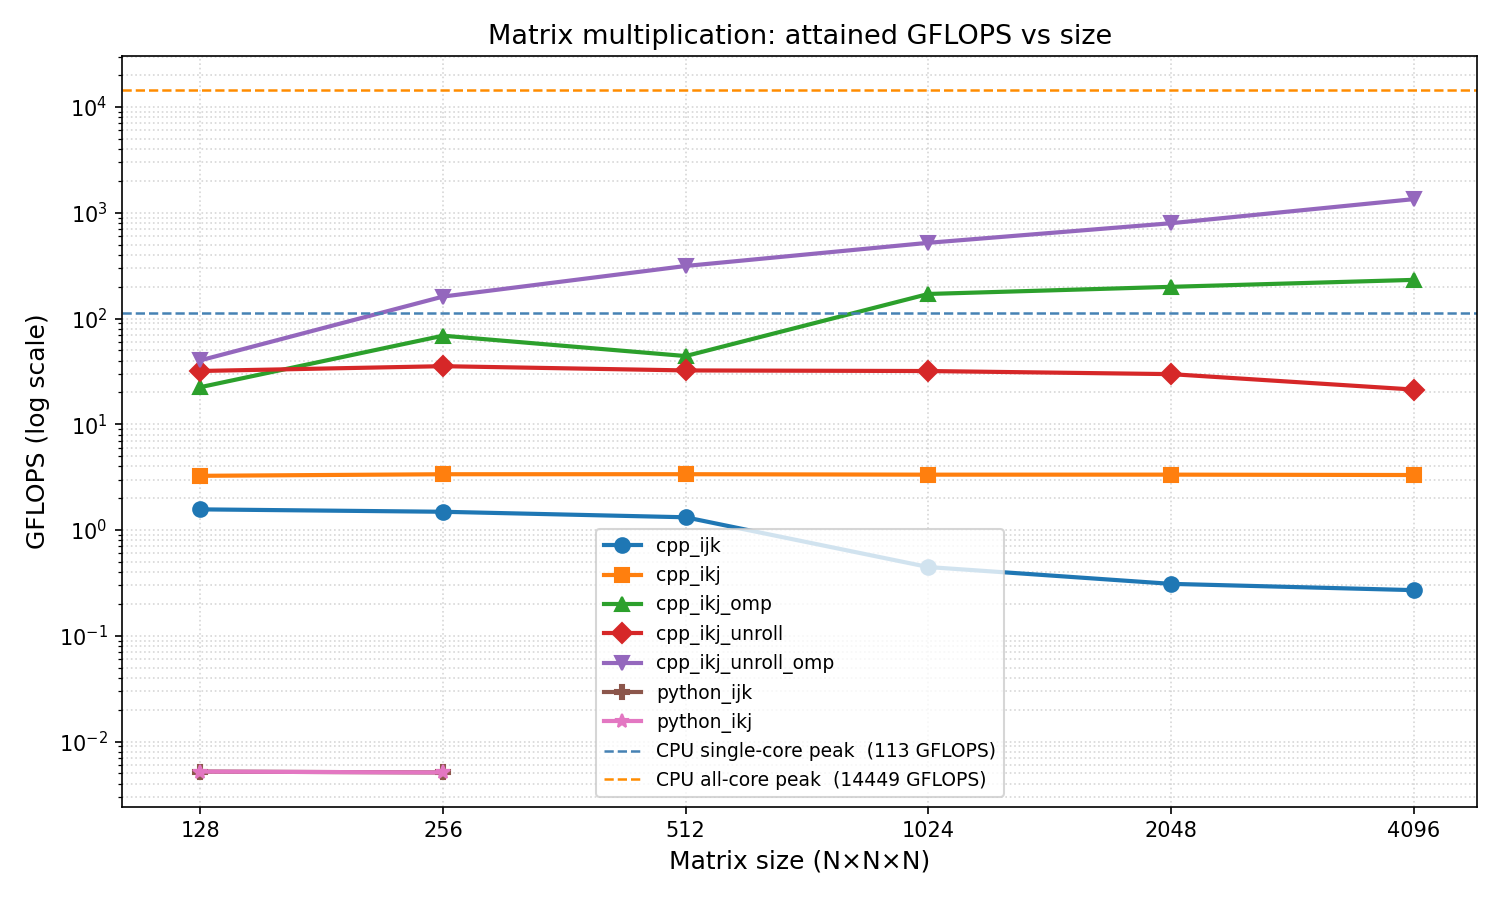
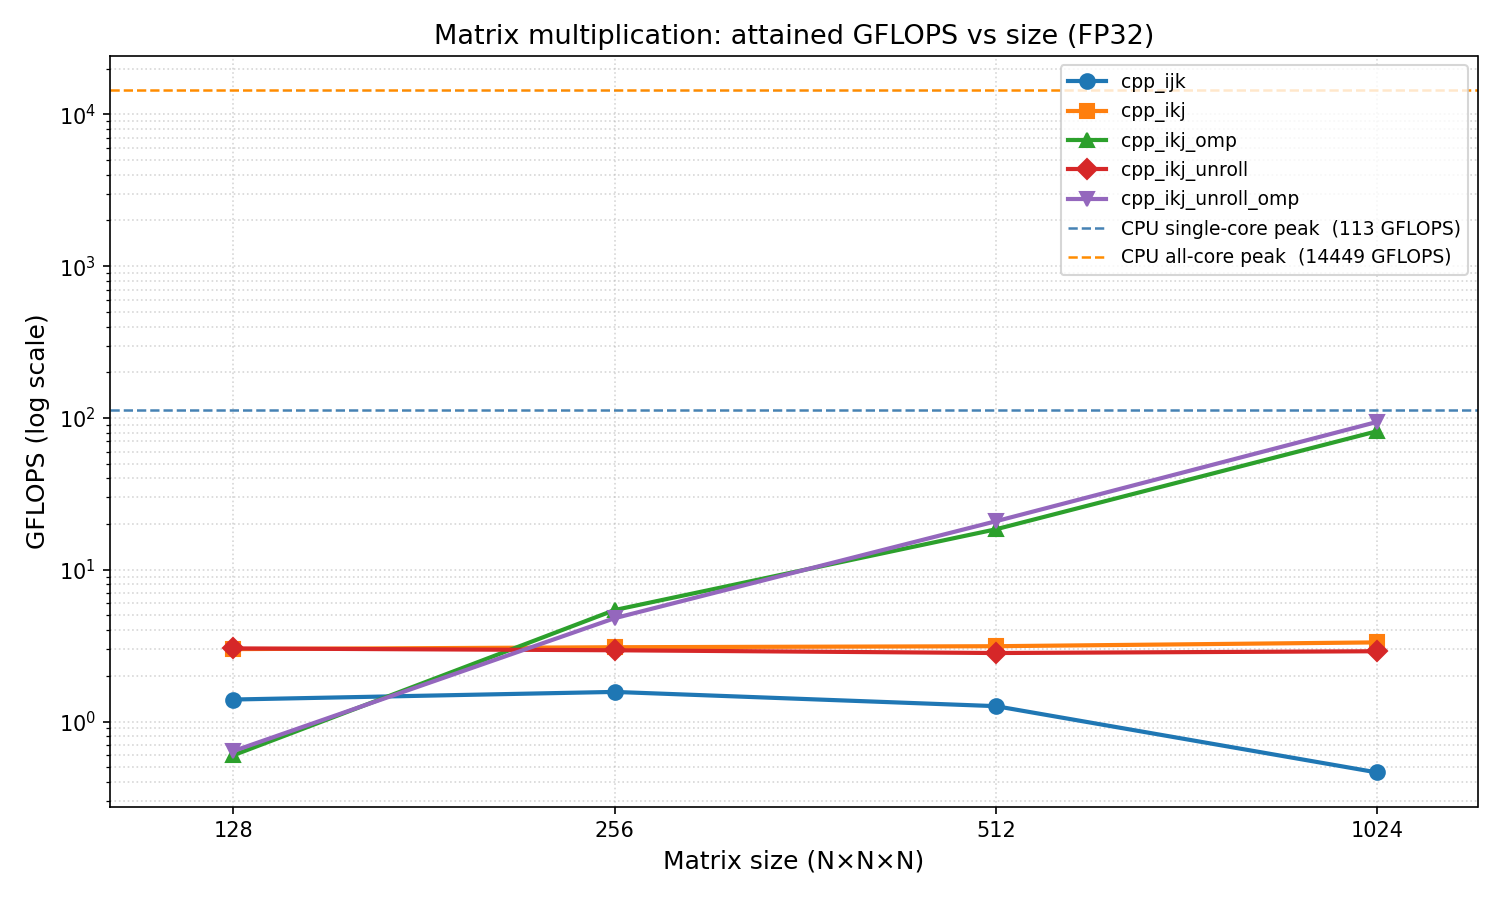
CPU benchmarks: validation, restructuring, and unrolling analysis
- Reorganized codebase: mymatmul/cpu/ and mymatmul/gpu/ subdirectories
- Added result validation to bench_cpu.py comparing against numpy.matmul
- Fixed unrolled loop implementation (was skipping columns, now correct)
- Relaxed validation tolerance to 1e-4 rtol, 1e-3 atol for FP32 accumulation error
- Split benchmarks: bench_cpu.py and plot_cpu.py with results_cpu.csv
- GPU framework: mymatmul/gpu/matmul_torch.py with bench_gpu.py and plot_gpu.py
- Updated notes/unrolling.md: empirical observation that manual unrolling hurts
  single-threaded perf but helps multi-threaded (OMP) by 15% at 1024³

Current results (validated ✓):
- cpp_ikj_unroll_omp: 0.64 → 94.2 GFLOPS (128 → 1024), approaching 113 GFLOPS peak
- cpp_ikj_omp: 0.60 → 81.8 GFLOPS, good scaling
- Single-threaded versions: ~3 GFLOPS (bandwidth-bound)

Next: GPU runs with PyTorch CUDA tensors.

diff --git a/benchmarks/bench_gpu.py b/benchmarks/bench_gpu.py
@@ -1,0 +1,122 @@
+"""Benchmark GPU matmul implementations and write results to benchmarks/results_gpu.csv."""
+
+import argparse
+import csv
+import os
+import time
+from datetime import datetime
+
+import numpy as np
+import torch
+
+# Registry: name -> (dotpath, max_size or None for no limit)
+# max_size: skip sizes larger than this (leaves empty cells in the results table)
+IMPLEMENTATIONS = {
+    "torch_naive_ijk": ("mymatmul.gpu.matmul_torch.matmul_torch_naive_ijk",   None),
+}
+
+SIZES = [64, 128, 256, 512, 1024, 2048, 4096]
+WARMUP_RUNS = 1
+TIMED_RUNS = 3
+
+RESULTS_FILE = os.path.join(os.path.dirname(__file__), "results_gpu.csv")
+FIELDNAMES = ["timestamp", "impl", "M", "N", "K", "gflops", "ms_mean", "ms_min"]
+
+
+def gflops(M, N, K, seconds):
+    return 2 * M * N * K / seconds / 1e9
+
+
+def benchmark_fn(fn, A_gpu, B_gpu):
+    # Warmup with GPU synchronization
+    for _ in range(WARMUP_RUNS):
+        fn(A_gpu, B_gpu)
+        torch.cuda.synchronize()
+
+    # Timed runs with synchronization
+    times = []
+    for _ in range(TIMED_RUNS):
+        t0 = time.perf_counter()
+        fn(A_gpu, B_gpu)
+        torch.cuda.synchronize()  # Wait for GPU to finish before stopping timer
+        times.append(time.perf_counter() - t0)
+    return times
+
+
+def load_fn(dotpath: str):
+    module_path, fn_name = dotpath.rsplit(".", 1)
+    import importlib
+    mod = importlib.import_module(module_path)
+    return getattr(mod, fn_name)
+
+
+def run(impls, sizes):
+    timestamp = datetime.now().strftime("%Y-%m-%d %H:%M:%S")
+    rows = []
+
+    for name, (dotpath, max_size) in impls.items():
+        print(f"\n[{name}] {dotpath}")
+        fn = load_fn(dotpath)
+
+        for sz in sizes:
+            M = N = K = sz
+
+            if max_size is not None and sz > max_size:
+                print(f"  {M}x{N}x{K}: skipped (max_size={max_size})")
+                continue
+
+            # Create on CPU first, then move to GPU (before timing)
+            A = np.random.randn(M, K).astype(np.float32)
+            B = np.random.randn(K, N).astype(np.float32)
+            A_gpu = torch.from_numpy(A).cuda()
+            B_gpu = torch.from_numpy(B).cuda()
+
+            # Time only the GPU computation
+            times = benchmark_fn(fn, A_gpu, B_gpu)
+            ms_mean = np.mean(times) * 1e3
+            ms_min = np.min(times) * 1e3
+            gf = gflops(M, N, K, np.min(times))
+
+            print(f"  {M}x{N}x{K}: {gf:.2f} GFLOPS  (mean {ms_mean:.1f} ms, best {ms_min:.1f} ms)")
+
+            rows.append({
+                "timestamp": timestamp,
+                "impl": name,
+                "M": M, "N": N, "K": K,
+                "gflops": f"{gf:.4f}",
+                "ms_mean": f"{ms_mean:.3f}",
+                "ms_min": f"{ms_min:.3f}",
+            })
+
+    # Merge with existing results: new rows overwrite matching (impl, M, N, K) keys
+    existing = {}
+    if os.path.exists(RESULTS_FILE):
+        with open(RESULTS_FILE, newline="") as f:
+            for row in csv.DictReader(f):
+                existing[(row["impl"], row["M"], row["N"], row["K"])] = row
+    for row in rows:
+        existing[(row["impl"], row["M"], row["N"], row["K"])] = row
+
+    merged = sorted(existing.values(), key=lambda r: (r["impl"], int(r["M"])))
+    with open(RESULTS_FILE, "w", newline="") as f:
+        writer = csv.DictWriter(f, fieldnames=FIELDNAMES)
+        writer.writeheader()
+        writer.writerows(merged)
+
+    print(f"\nResults written to {RESULTS_FILE}")
+
+
+def main():
+    parser = argparse.ArgumentParser()
+    parser.add_argument("--impls", nargs="+", default=list(IMPLEMENTATIONS.keys()),
+                        help="Which implementations to benchmark (default: all)")
+    parser.add_argument("--sizes", nargs="+", type=int, default=SIZES,
+                        help="Matrix sizes to benchmark (square MxMxM)")
+    args = parser.parse_args()
+
+    impls = {k: IMPLEMENTATIONS[k] for k in args.impls}
+    run(impls, args.sizes)
+
+
+if __name__ == "__main__":
+    main()

diff --git a/benchmarks/bench_cpu.py b/benchmarks/bench_cpu.py
@@ -11,14 +11,14 @@ import numpy as np
 # Registry: name -> (dotpath, max_size or None for no limit)
 # max_size: skip sizes larger than this (leaves empty cells in the results table)
 IMPLEMENTATIONS = {
-    "python_ijk":     ("mymatmul.matmul_python.matmul_python_ijk",       512),
-    "python_ikj":     ("mymatmul.matmul_python.matmul_python_ikj",       512),
-    "cpp_ijk":        ("mymatmul.matmul_cpp.matmul_cpp_ijk",             None),
-    "cpp_ikj":        ("mymatmul.matmul_cpp.matmul_cpp_ikj",             None),
-    "cpp_ikj_vec":    ("mymatmul.matmul_cpp.matmul_cpp_ikj_vec",         None),
-    "cpp_ikj_unroll":     ("mymatmul.matmul_cpp.matmul_cpp_ikj_unroll",         None),
-    "cpp_ikj_omp":        ("mymatmul.matmul_cpp.matmul_cpp_ikj_omp",            None),
-    "cpp_ikj_unroll_omp": ("mymatmul.matmul_cpp.matmul_cpp_ikj_unroll_omp",     None),
+    "python_ijk":     ("mymatmul.cpu.matmul_python.matmul_python_ijk",       512),
+    "python_ikj":     ("mymatmul.cpu.matmul_python.matmul_python_ikj",       512),
+    "cpp_ijk":        ("mymatmul.cpu.matmul_cpp.matmul_cpp_ijk",             None),
+    "cpp_ikj":        ("mymatmul.cpu.matmul_cpp.matmul_cpp_ikj",             None),
+    "cpp_ikj_vec":    ("mymatmul.cpu.matmul_cpp.matmul_cpp_ikj_vec",         None),
+    "cpp_ikj_unroll":     ("mymatmul.cpu.matmul_cpp.matmul_cpp_ikj_unroll",         None),
+    "cpp_ikj_omp":        ("mymatmul.cpu.matmul_cpp.matmul_cpp_ikj_omp",            None),
+    "cpp_ikj_unroll_omp": ("mymatmul.cpu.matmul_cpp.matmul_cpp_ikj_unroll_omp",     None),
 }
 
 SIZES = [64, 128, 256, 512, 1024, 2048, 4096]
@@ -51,6 +51,17 @@ def load_fn(dotpath: str):
     return getattr(mod, fn_name)
 
 
+def validate_fn(fn, A, B, rtol=1e-4, atol=1e-3):
+    """Validate implementation against numpy.matmul reference."""
+    result = fn(A, B)
+    expected = np.matmul(A, B)
+
+    if not np.allclose(result, expected, rtol=rtol, atol=atol):
+        max_err = np.max(np.abs(result - expected))
+        raise AssertionError(f"Result mismatch! max_error={max_err:.2e}")
+    return True
+
+
 def run(impls, sizes):
     timestamp = datetime.now().strftime("%Y-%m-%d %H:%M:%S")
     rows = []
@@ -69,12 +80,19 @@ def run(impls, sizes):
             A = np.random.randn(M, K).astype(np.float32)
             B = np.random.randn(K, N).astype(np.float32)
 
+            # Validate result before benchmarking
+            try:
+                validate_fn(fn, A, B)
+            except AssertionError as e:
+                print(f"  {M}x{N}x{K}: ✗ validation FAILED: {e}")
+                continue
+
             times = benchmark_fn(fn, A, B)
             ms_mean = np.mean(times) * 1e3
             ms_min = np.min(times) * 1e3
             gf = gflops(M, N, K, np.min(times))
 
-            print(f"  {M}x{N}x{K}: {gf:.2f} GFLOPS  (mean {ms_mean:.1f} ms, best {ms_min:.1f} ms)")
+            print(f"  {M}x{N}x{K}: ✓ {gf:.2f} GFLOPS  (mean {ms_mean:.1f} ms, best {ms_min:.1f} ms)")
 
             rows.append({
                 "timestamp": timestamp,

diff --git a/benchmarks/plot_gpu.py b/benchmarks/plot_gpu.py
@@ -1,0 +1,65 @@
+"""Plot GFLOPS vs matrix size for GPU implementations in results_gpu.csv."""
+
+import csv
+import os
+from collections import defaultdict
+
+import matplotlib.pyplot as plt
+import matplotlib.ticker as ticker
+import numpy as np
+
+RESULTS_FILE = os.path.join(os.path.dirname(__file__), "results_gpu.csv")
+PLOT_FILE = os.path.join(os.path.dirname(__file__), "results_gpu.png")
+
+# Theoretical peak GFLOPS
+# RTX 4090: 16384 CUDA cores, 2.505 GHz boost, 2 FP32 ops per clock per core
+GPU_4090_PEAK = 82_580.0  # GFLOPS (FP32)
+
+
+def load_results(path):
+    data = defaultdict(lambda: {"sizes": [], "gflops": []})
+    with open(path, newline="") as f:
+        for row in csv.DictReader(f):
+            impl = row["impl"]
+            size = int(row["M"])
+            if size == 64:  # skip 64
+                continue
+            data[impl]["sizes"].append(size)
+            data[impl]["gflops"].append(float(row["gflops"]))
+    return data
+
+
+def plot(data):
+    fig, ax = plt.subplots(figsize=(10, 6))
+
+    markers = ["o", "s", "^", "D", "v", "P", "*"]
+    for i, (impl, d) in enumerate(sorted(data.items())):
+        sizes = d["sizes"]
+        gflops = d["gflops"]
+        ax.plot(sizes, gflops, marker=markers[i % len(markers)],
+                label=impl, linewidth=2, markersize=7)
+
+    all_sizes = sorted({s for d in data.values() for s in d["sizes"]})
+    x_min, x_max = all_sizes[0] * 0.8, all_sizes[-1] * 1.2
+
+    ax.axhline(GPU_4090_PEAK, color="mediumseagreen", linestyle="--", linewidth=1.2,
+               label=f"RTX 4090 peak  ({GPU_4090_PEAK:,.0f} GFLOPS)")
+
+    ax.set_xscale("log", base=2)
+    ax.set_yscale("log")
+    ax.set_xlim(x_min, x_max)
+    ax.xaxis.set_major_formatter(ticker.FuncFormatter(lambda v, _: str(int(v))))
+    ax.set_xlabel("Matrix size (N×N×N)", fontsize=12)
+    ax.set_ylabel("GFLOPS (log scale)", fontsize=12)
+    ax.set_title("Matrix multiplication: GPU attained GFLOPS vs size (FP32)", fontsize=13)
+    ax.legend(fontsize=9)
+    ax.grid(True, which="both", linestyle=":", alpha=0.5)
+
+    fig.tight_layout()
+    fig.savefig(PLOT_FILE, dpi=150)
+    print(f"Saved {PLOT_FILE}")
+
+
+if __name__ == "__main__":
+    data = load_results(RESULTS_FILE)
+    plot(data)

diff --git a/mymatmul/cpu/_matmul_cpp_ext.cpp b/mymatmul/cpu/_matmul_cpp_ext.cpp
@@ -107,11 +107,9 @@ static PyObject* py_matmul_cpp_ikj_unroll(PyObject* self, PyObject* args) {
             float* __restrict__ c = pC + i*N;
             const float* __restrict__ b = pB + k*N;
             int j = 0;
-            for (; j <= N - 32; j += 32) {
-                c[j +  0] += a_ik * b[j +  0];
-                c[j +  8] += a_ik * b[j +  8];
-                c[j + 16] += a_ik * b[j + 16];
-                c[j + 24] += a_ik * b[j + 24];
+            for (; j + 31 < N; j += 32) {
+                for (int jj = 0; jj < 32; jj++)
+                    c[j + jj] += a_ik * b[j + jj];
             }
             for (; j < N; j++)
                 c[j] += a_ik * b[j];
@@ -174,11 +172,9 @@ static PyObject* py_matmul_cpp_ikj_unroll_omp(PyObject* self, PyObject* args) {
             float* __restrict__ c = pC + i*N;
             const float* __restrict__ b = pB + k*N;
             int j = 0;
-            for (; j <= N - 32; j += 32) {
-                c[j +  0] += a_ik * b[j +  0];
-                c[j +  8] += a_ik * b[j +  8];
-                c[j + 16] += a_ik * b[j + 16];
-                c[j + 24] += a_ik * b[j + 24];
+            for (; j + 31 < N; j += 32) {
+                for (int jj = 0; jj < 32; jj++)
+                    c[j + jj] += a_ik * b[j + jj];
             }
             for (; j < N; j++)
                 c[j] += a_ik * b[j];

diff --git a/mymatmul/cpu/__init__.py b/mymatmul/cpu/__init__.py
@@ -1,0 +1,19 @@
+from .matmul_python import matmul_python_ijk, matmul_python_ikj
+from .matmul_numba_naive import matmul_numba_ijk, matmul_numba_ikj
+from .matmul_cpp import (
+    matmul_cpp_ijk, matmul_cpp_ikj, matmul_cpp_ikj_vec,
+    matmul_cpp_ikj_unroll, matmul_cpp_ikj_omp, matmul_cpp_ikj_unroll_omp,
+)
+
+__all__ = [
+    "matmul_python_ijk",
+    "matmul_python_ikj",
+    "matmul_numba_ijk",
+    "matmul_numba_ikj",
+    "matmul_cpp_ijk",
+    "matmul_cpp_ikj",
+    "matmul_cpp_ikj_vec",
+    "matmul_cpp_ikj_unroll",
+    "matmul_cpp_ikj_omp",
+    "matmul_cpp_ikj_unroll_omp",
+]

diff --git a/mymatmul/__init__.py b/mymatmul/__init__.py
@@ -1,8 +1,14 @@
-from .matmul_python import matmul_python_ijk, matmul_python_ikj
-from .matmul_numba_naive import matmul_numba_ijk, matmul_numba_ikj
-from .matmul_cpp import (
-    matmul_cpp_ijk, matmul_cpp_ikj, matmul_cpp_ikj_vec,
-    matmul_cpp_ikj_unroll, matmul_cpp_ikj_omp, matmul_cpp_ikj_unroll_omp,
+from .cpu import (
+    matmul_python_ijk,
+    matmul_python_ikj,
+    matmul_numba_ijk,
+    matmul_numba_ikj,
+    matmul_cpp_ijk,
+    matmul_cpp_ikj,
+    matmul_cpp_ikj_vec,
+    matmul_cpp_ikj_unroll,
+    matmul_cpp_ikj_omp,
+    matmul_cpp_ikj_unroll_omp,
 )
 
 __all__ = [

diff --git a/benchmarks/plot_cpu.py b/benchmarks/plot_cpu.py
@@ -65,7 +65,7 @@ def plot(data):
     ax.xaxis.set_major_formatter(ticker.FuncFormatter(lambda v, _: str(int(v))))
     ax.set_xlabel("Matrix size (N×N×N)", fontsize=12)
     ax.set_ylabel("GFLOPS (log scale)", fontsize=12)
-    ax.set_title("Matrix multiplication: attained GFLOPS vs size", fontsize=13)
+    ax.set_title("Matrix multiplication: attained GFLOPS vs size (FP32)", fontsize=13)
     ax.legend(fontsize=9)
     ax.grid(True, which="both", linestyle=":", alpha=0.5)
 

diff --git a/setup.py b/setup.py
@@ -2,8 +2,8 @@ from setuptools import setup, find_packages, Extension
 import numpy as np
 
 cpp_ext = Extension(
-    "mymatmul._matmul_cpp_ext",
-    sources=["mymatmul/_matmul_cpp_ext.cpp"],
+    "mymatmul.cpu._matmul_cpp_ext",
+    sources=["mymatmul/cpu/_matmul_cpp_ext.cpp"],
     include_dirs=[np.get_include()],
     extra_compile_args=["-O3", "-std=c++11", "-mavx2", "-mfma", "-fopenmp"],
     extra_link_args=["-fopenmp"],

diff --git a/mymatmul/gpu/matmul_torch.py b/mymatmul/gpu/matmul_torch.py
@@ -1,0 +1,10 @@
+import torch
+
+
+def matmul_torch_naive_ijk(A_gpu, B_gpu):
+    """GPU matmul using PyTorch's optimized GEMM.
+
+    Assumes A_gpu and B_gpu are already torch.cuda.FloatTensor on GPU.
+    Returns result as GPU tensor.
+    """
+    return torch.mm(A_gpu, B_gpu)

diff --git a/mymatmul/cpu/matmul_cpp.py b/mymatmul/cpu/matmul_cpp.py
@@ -1,4 +1,4 @@
-from mymatmul._matmul_cpp_ext import (
+from ._matmul_cpp_ext import (
     matmul_cpp_ijk, matmul_cpp_ikj, matmul_cpp_ikj_vec,
     matmul_cpp_ikj_unroll, matmul_cpp_ikj_omp, matmul_cpp_ikj_unroll_omp,
 )

diff --git a/mymatmul/gpu/__init__.py b/mymatmul/gpu/__init__.py
@@ -1,0 +1,5 @@
+"""GPU implementations (PyTorch/CUDA)."""
+
+from .matmul_torch import matmul_torch_naive_ijk
+
+__all__ = ["matmul_torch_naive_ijk"]
